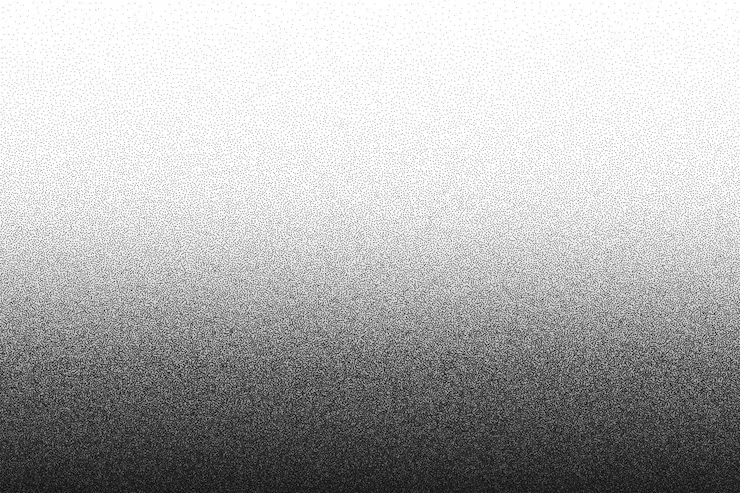
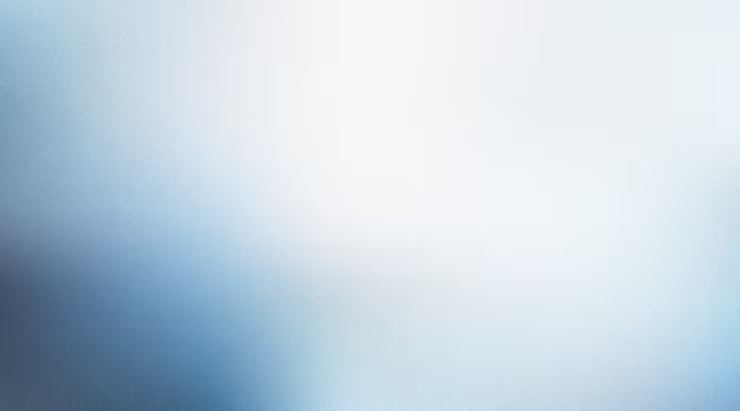
style: replace store background image

diff --git a/src/pages/Store.tsx b/src/pages/Store.tsx
@@ -4,16 +4,16 @@ import { StoreStatus } from "../components/StoreStatus";
 import { LanguageSwitch } from "../components/LanguageSwitch";
 import { useStoreData } from "../hooks/useStoreData";
 
-const BG_IMAGE = "/bg-custom.png";
+const BG_IMAGE = "/bg-custom.png?v=2";
 
 export function Store() {
   const { state, retry } = useStoreData();
 
   return (
-    <div className="relative min-h-screen w-full overflow-x-hidden bg-black font-sans text-white">
+    <div className="relative min-h-screen w-full overflow-x-hidden bg-[#0c1824] font-sans text-white">
       <div aria-hidden className="fixed inset-0 z-0">
         <img src={BG_IMAGE} alt="" className="absolute inset-0 h-full w-full object-cover object-center" />
-        <div className="absolute inset-0 bg-black/50" />
+        <div className="absolute inset-0 bg-black/15" />
       </div>
 
       <LanguageSwitch />
